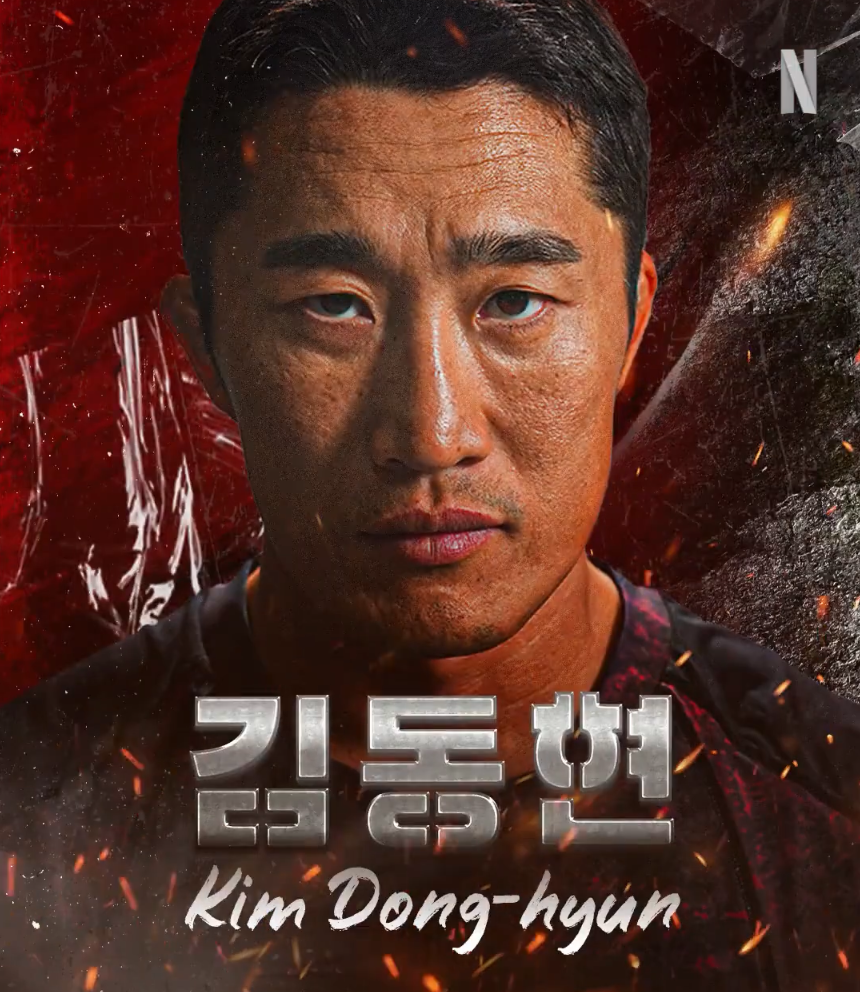
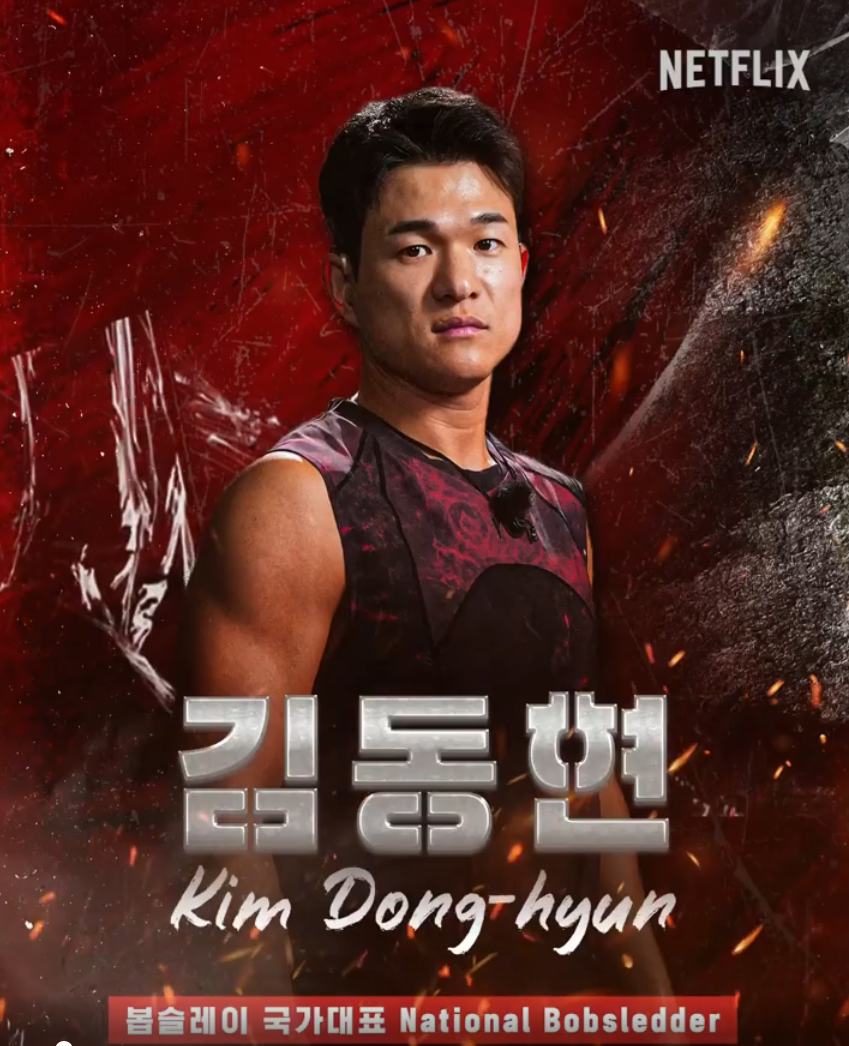
add all season 2 challenges in seed data file

diff --git a/seed-data/contestants-data.js b/seed-data/contestants-data.js
@@ -4,7 +4,7 @@ module.exports = [
         name: "Kim Dong Hyun (Cicada)",
         season: 2,
         career: "Pro MMA Fighter (Retired)",
-        photo: "images/contestants/s2-kim-dong-hyun.png",
+        photo: "images/contestants/s2-kim-dong-hyun-cicada.png",
         description: "Former #6 ranking in world UFC's welterweight division. Married to longtime girlfriend and have three children. Popular for his fun, goofy personality on variety shows."
     },
     {
@@ -94,5 +94,149 @@ module.exports = [
         career: "US Army Major",
         photo: "images/contestants/s2-gibson.png",
         description: "Lives in the states with wife and two children. Gibson is a United States Army Officer from the 411th Contracting Support Brigade at Camp Humphreys and is a powerlifter. Gibson made it to Round 4. "
+    },
+    {
+        id: 13,
+        name: "Seol Young Ho",
+        season: 2,
+        career: "Pro Heavyweight MMA Fighter",
+        photo: "images/contestants/s2-seol-young-ho.png",
+        description: "Seol went up aganinst his teammates in Round 4 but lost. His Instagram reveals he's back to training as a fighter."
+    },
+    {
+        id: 14,
+        name: "Jo Sung Bin",
+        season: 2,
+        career: "Pro Featherweight MMA Fighter",
+        photo: "images/contestants/s2-jo-sung-bin.png",
+        description: "Also runs a Kickboxing & Jiu Jitsu Studio."
+    },
+    {
+        id: 15,
+        name: "Mo Tae Bum",
+        season: 2,
+        career: "National Speed Skater (Retired)",
+        photo: "images/contestants/s2-mo-tae-bum.png",
+        description: "1x Olympic Gold Medalist, 1x Silver Gold Medalist. Multiple medals in World, Winter Universiade, and Asian Winter Games. Featured on various Korean variety shows."
+    },
+    {
+        id: 16,
+        name: "Chang Yong Heung",
+        season: 2,
+        career: "National Rugby Player",
+        photo: "images/contestants/s2-chang-yong-heung.png",
+        description: "1x Silver Medalist & 1x Bronze Medalist for Asian Games."
+    },
+    {
+        id: 17,
+        name: "Hong Hyeon Jun",
+        season: 2,
+        career: "Pro Golfer",
+        photo: "images/contestants/s2-hong-hyeon-jun.png",
+        description: "WLD World Long drive player. 2021's longest drive with 471 yards."
+    },
+    {
+        id: 18,
+        name: "Kim Dong Hyun",
+        season: 2,
+        career: "National Bobsledder",
+        photo: "images/contestants/s2-kim-dong-hyun.png",
+        description: "1x Olympic Silver Medalist, First Korean (with team) to win a medal in bobsleigh event."
+    },
+    {
+        id: 19,
+        name: "Lee Jang Kun",
+        season: 2,
+        career: "National Kabbadi Player",
+        photo: "images/contestants/s2-lee-jang-kun.png",
+        description: "1x Silver & 1x Bronze Asian Games Medalist, 1x Bronze World Cup Medalist, 1x Bronze Asian Indoor Martial Arts Medalist. Married to fitness model wife."
+    },
+    {
+        id: 20,
+        name: "Kim Hyeong Kyu",
+        season: 2,
+        career: "Pro Boxer",
+        photo: "images/contestants/s2-kim-hyeong-kyu.png",
+        description: "2x Asian Game Gold Medalist."
+    },
+    {
+        id: 21,
+        name: "Park Hee Jun",
+        season: 2,
+        career: "National Karate Player",
+        photo: "images/contestants/s2-park-hee-jun.png",
+        description: "1x Asian Games Bronze Medalist, First Korean to win medal in Kata at Asian Games."
+    },
+    {
+        id: 22,
+        name: "Hwang Chan Seob",
+        season: 2,
+        career: "Ssireum Athlete",
+        photo: "images/contestants/s2-hwang-chan-seob.png",
+        description: "Traditional Korean wrestling. Won 1st and 3rd in local Ssireum competitions."
+    },
+    {
+        id: 23,
+        name: "Kim Do Hyeon",
+        season: 2,
+        career: "Heavyweight Division Boxer",
+        photo: "images/contestants/s2-kim-do-hyeon.png",
+        description: "He fights in the heavyweight division and has appeared in other shows such as Running Man, Let's Play Soccer, Steel Troops, and more. He was part of Amotti's first team, but was saldy eliminated and didn't make it through the redemption challenge."
+    },
+    {
+        id: 24,
+        name: "Joo Min Kyung",
+        season: 2,
+        career: "National Arm Wrestler",
+        photo: "images/contestants/s2-joo-min-kyung.png",
+        description: "Winner of JTBC Show Arm Wrestling Competition. Runs and mentors an Arm Wrestling Studio."
+    },
+    {
+        id: 25,
+        name: "Ham Young Jin",
+        season: 2,
+        career: "Former National Judo Player. Current Police Officer.",
+        photo: "images/contestants/s2-ham-young-jin.png",
+        description: "Ham Young-jin joined Physical 100 Season 2 thanks to his experience as a police officer and his skill in judo. He was a former national judo team athlete and went on a special track to becoming an officer thanks to his martial arts background. He was eliminated in Round 3."
+    },
+    {
+        id: 26,
+        name: "Ha Moo Kyung",
+        season: 2,
+        career: "Handball Player",
+        photo: "images/contestants/s2-ha-moo-kyung.png",
+        description: "Ha went pretty far in the series with his team, but was soon eliminated. He's back to playing tournaments as a handball player."
+    },
+    {
+        id: 27,
+        name: "Seo Young Woo",
+        season: 2,
+        career: "National Bobsledder",
+        photo: "images/contestants/s2-seo-young-woo.png",
+        description: "Seo Young-woo is a Korean bobsledder. As part of a two-man team, his role is as the brakeman with his teammate as the pilot. He has competed in the 2014 Winter Olympics, IBSF World Championships, and the World Cup."
+    },
+    {
+        id: 28,
+        name: "Eom Dae Hyun",
+        season: 2,
+        career: "National Parkour Athlete",
+        photo: "images/contestants/s2-eom-dae-hyun.png",
+        description: "Eom was originally part of Thanos's team but was also eliminated during the maze match. He was unable to return in the redemption challenge."
+    },
+    {
+        id: 29,
+        name: "Lee Jun Ha",
+        season: 2,
+        career: "American Football Player",
+        photo: "images/contestants/s2-lee-jun-ha.png",
+        description: "A welcome mix to the roster was American football athlete Lee Jun-ha. He didn't make it to the final rounds, however."
+    },
+    {
+        id: 30,
+        name: "Choi Won Jae",
+        season: 2,
+        career: "National Cheerleading Team Athlete",
+        photo: "images/contestants/s2-choi-won-jae.png",
+        description: "National cheerleading team athlete."
     },
 ]

diff --git a/seed-data/challenges-data.js b/seed-data/challenges-data.js
@@ -39,4 +39,36 @@ module.exports = [
         photo: "images/challenges/s2-q3-mine-transportation.jpg",
         description: "There are four rounds in the Mine Transportation Match. For each round, the team that places first gets three points, second gets two, and third gets one. At the end of Quest 3, the team with the least amount of points gets eliminated. Round 1 is a two-person minecraft haul. The first person secures as much weight as possible at the end of a track before pushing the minecraft back to the starting point and unloading. The second person will go back and add more weight to total two tons. The team to finish first wins. Round 2 is the exact same, except it involves only one team member. Round 3 is a two-person mid-air transit. A weighted bag suspended on monkey bars must be pushed to the endpoint. Once the contestant reaches the end, they must hurry back to their starting point through the same monkey bars. Round 4 is the same, with only one team member."
     },
+    {
+        id: 6,
+        name: "Quest 4: Intrateam Survival",
+        season: 2,
+        team: false,
+        photo: "images/challenges/s2-q4-intrateam-survival.jpeg",
+        description: "The remaining teams were thrown a curveball when the voice announced the teammates would be going against each other. Only one of each team will make it to the final quest. The challenge is simple but requires endurance and strength. The first-come roller race requires each team member to haul a roller across a field with humps and a water ditch. Each roller weighs 150kg (330lbs) and has straps for the contestants to secure to themselves to pull it. Each contestant must haul the roller across the field, run back to the starting point, and haul a second roller. They must try to outbeat each other in speed and time and run back to the starting point as quickly as possible. The person unable to complete the challenge or come in last is eliminated. Each team would go through four rounds until only one person remains."
+    },
+    {
+        id: 7,
+        name: "Quest 5.1: Torso Hold",
+        season: 2,
+        team: false,
+        photo: "images/challenges/s2-q5.1-torso-hold.jpeg",
+        description: "Similar to the redemption challenge in Season 1, each contest holds a rope connected to a pulley and their plaster torso plus additional weight adding up to 40% of their body weight. The first person to drop their plaster torso is eliminated.Justin Harvey was eliminated."
+    },
+    {
+        id: 8,
+        name: "Quest 5.2: Infinite Squats",
+        season: 2,
+        team: false,
+        photo: "images/challenges/s2-q5.2-infinite-squats.jpeg",
+        description: "Round 2 of the final quest was tied into the theme of the series. The final three contestants had to perform 30 weighted squats in each round until one calls it quits. But there was an added challenge. A conveyor belt would add real coal after each round to add more weight, making each set of 30 squats more difficult than the last. Andrew Jin was eliminated."
+    },
+    {
+        id: 9,
+        name: "Quest 5.3: Pole Push",
+        season: 2,
+        team: false,
+        photo: "images/challenges/s2-q5.3-pole-push.jpeg",
+        description: "The final two contestants enter a dome with a long metal pole that swings around. The goal is simple with one contestant on each end of the pole. When the bell rings, the contestants will push against each other. Their goal is to out win the other and move the pole around to knock over a post. The first person to knock down two wins Physical 100 Season 2. Hong Beom-seok won the first round. Amotti won the second round. Amotti won the third round. Hong Beom-seok was eliminated. Amotti won the title of Physical 100 Champion."
+    },
 ]

diff --git a/migrations/20240604170142_alter-contestants-description-size.js b/migrations/20240604170142_alter-contestants-description-size.js
@@ -1,0 +1,19 @@
+/**
+ * @param { import("knex").Knex } knex
+ * @returns { Promise<void> }
+ */
+exports.up = function(knex) {
+    return knex.schema.alterTable('contestants', function(table) {
+        table.text('description', 'longtext').alter();
+    });
+};
+
+/**
+ * @param { import("knex").Knex } knex
+ * @returns { Promise<void> }
+ */
+exports.down = function(knex) {
+    return knex.schema.alterTable('contestants', function(table) {
+        table.text('description').alter();
+    });
+};

diff --git a/migrations/20240604170249_alter-challenges-description-size.js b/migrations/20240604170249_alter-challenges-description-size.js
@@ -1,0 +1,19 @@
+/**
+ * @param { import("knex").Knex } knex
+ * @returns { Promise<void> }
+ */
+exports.up = function(knex) {
+    return knex.schema.alterTable('challenges', function(table) {
+        table.text('description', 'longtext').alter();
+    });
+};
+
+/**
+ * @param { import("knex").Knex } knex
+ * @returns { Promise<void> }
+ */
+exports.down = function(knex) {
+    return knex.schema.alterTable('challenges', function(table) {
+        table.text('description').alter();
+    });
+};
